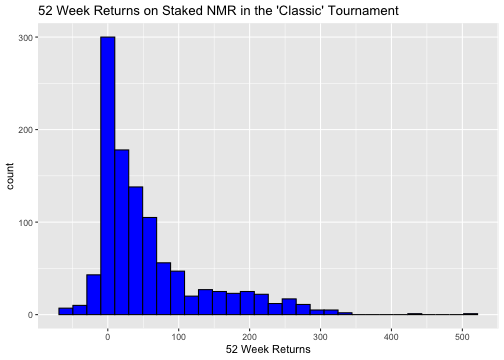
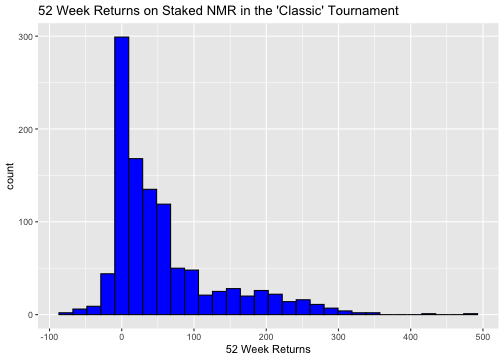
Update the Numerai Growth case study

diff --git a/case-studies/numerai-growth/index.html b/case-studies/numerai-growth/index.html
@@ -4,7 +4,7 @@
     <title>Interacting with and Analyzing Numerai Network Growth</title>
     <meta charset="utf-8" />
     <meta name="author" content="Omni Analytics Group" />
-    <meta name="date" content="2020-12-22" />
+    <meta name="date" content="2020-12-23" />
     <script src="libs/header-attrs-2.5/header-attrs.js"></script>
     <link href="libs/remark-css-0.0.1/default.css" rel="stylesheet" />
     <link href="libs/remark-css-0.0.1/default-fonts.css" rel="stylesheet" />
@@ -16,7 +16,7 @@ class: center, middle, inverse, title-slide
 # Interacting with and Analyzing Numerai Network Growth
 ## <br/>with GraphQL and <code>ggplot2</code>
 ### Omni Analytics Group
-### 2020-12-22
+### 2020-12-23
 
 ---
 
@@ -25,11 +25,28 @@ class: center, middle, inverse, title-slide
 
 Numerai is a modern-day hedge fund where a large pool of anonymous data scientists submit models. These models are then used by the AI-based Numerai backend to perform trades. Numerai has seen explosive growth in recent years... can we use R-based tools to analyze this growth?
 
+![](images/numerai.png)
+
 ---
 
 ## GraphQL
 
-Numerai's API uses GraphQL as a backend, which is a structured query language much like SQL itself. There are two primary methods of accessing the data
+Numerai's API uses GraphQL as a backend, which is a structured query language much like SQL itself.
+
+- Developed initially as an internal project by Facebook
+- Provides a method for development of APIs much like REST
+- Flexible and rich compared to REST and therefore may be less suitable for more simple web APIs
+- Where REST APIs are organized as a collection of endpoints, GraphQL is organized as a collection of types and fields with their associated datatype specification.
+
+Let's take a look at how to interact with GraphQL in R...
+
+&lt;div style="text-align: center;"&gt;&lt;img src="images/graphql.png" width=500&gt;&lt;/div&gt;
+
+---
+
+## GraphQL in R
+
+There are two primary methods of accessing the Numerai data:
 
 - Directly, using the `ghql` R package
 - Indirectly, by downloading the parsed JSON data from the Numerai API and reading it into R
@@ -58,9 +75,11 @@ con &lt;- GraphqlClient$new(
 )
 ```
 
+This connection object maintains the GraphQL client connection to the Numerai API server. Note that it is an &lt;a href="https://adv-r.hadley.nz/r6.html"&gt;R6-style object&lt;/a&gt; and hence is initialized with 
+
 ---
 
-## Making a Query
+## Making a Leaderboard Query
 
 We can perform a query with the following:
 
@@ -81,16 +100,35 @@ qry$query('leaderboard', '{
 result &lt;- con$exec(qry$queries$leaderboard)
 ```
 
+Note that we begin with the initialization of a new instance of the R6 `Query` class, and then call the `query()` method, passing in two arguments:
+
+- The name of the resulting object
+- The raw GraphQL query that is to be executed
+
 ---
 
 ## Viewing the Results
 
 
 
+A quick peak at the raw return value shows JSON data that we need to parse using the `fromJSON()` function, in order to retrieve a data frame:
+
 
 ```r
-parsed &lt;- fromJSON(result)[[1]]$v2Leaderboard
-head(parsed) %&gt;%
+print(paste0(substring(result, 1, 50), "..."))
+```
+
+```
+## [1] "{\"data\":{\"v2Leaderboard\":[{\"corrRep\":0.04212874041..."
+```
+
+And the parsed data:
+
+
+```r
+nmr &lt;- fromJSON(result)[[1]]$v2Leaderboard
+
+head(nmr, 4) %&gt;%
   kable()
 ```
 
@@ -106,77 +144,97 @@ head(parsed) %&gt;%
  &lt;/thead&gt;
 &lt;tbody&gt;
   &lt;tr&gt;
-   &lt;td style="text-align:right;"&gt; 0.0402891 &lt;/td&gt;
-   &lt;td style="text-align:right;"&gt; 0.0209802 &lt;/td&gt;
-   &lt;td style="text-align:right;"&gt; 119.53684 &lt;/td&gt;
-   &lt;td style="text-align:right;"&gt; 335.1833 &lt;/td&gt;
+   &lt;td style="text-align:right;"&gt; 0.0421287 &lt;/td&gt;
+   &lt;td style="text-align:right;"&gt; 0.0218499 &lt;/td&gt;
+   &lt;td style="text-align:right;"&gt; 130.45863 &lt;/td&gt;
+   &lt;td style="text-align:right;"&gt; 356.8333 &lt;/td&gt;
    &lt;td style="text-align:left;"&gt; era__mix__2000 &lt;/td&gt;
   &lt;/tr&gt;
   &lt;tr&gt;
-   &lt;td style="text-align:right;"&gt; 0.0401076 &lt;/td&gt;
-   &lt;td style="text-align:right;"&gt; 0.0166502 &lt;/td&gt;
-   &lt;td style="text-align:right;"&gt; NA &lt;/td&gt;
-   &lt;td style="text-align:right;"&gt; NA &lt;/td&gt;
-   &lt;td style="text-align:left;"&gt; tb &lt;/td&gt;
-  &lt;/tr&gt;
-  &lt;tr&gt;
-   &lt;td style="text-align:right;"&gt; 0.0400921 &lt;/td&gt;
-   &lt;td style="text-align:right;"&gt; 0.0168063 &lt;/td&gt;
-   &lt;td style="text-align:right;"&gt; 86.45799 &lt;/td&gt;
-   &lt;td style="text-align:right;"&gt; 435.2859 &lt;/td&gt;
+   &lt;td style="text-align:right;"&gt; 0.0407043 &lt;/td&gt;
+   &lt;td style="text-align:right;"&gt; 0.0164406 &lt;/td&gt;
+   &lt;td style="text-align:right;"&gt; 85.57485 &lt;/td&gt;
+   &lt;td style="text-align:right;"&gt; 432.7505 &lt;/td&gt;
    &lt;td style="text-align:left;"&gt; themiconmanweb &lt;/td&gt;
   &lt;/tr&gt;
   &lt;tr&gt;
-   &lt;td style="text-align:right;"&gt; 0.0392682 &lt;/td&gt;
-   &lt;td style="text-align:right;"&gt; 0.0177738 &lt;/td&gt;
-   &lt;td style="text-align:right;"&gt; 87.74424 &lt;/td&gt;
-   &lt;td style="text-align:right;"&gt; 502.7527 &lt;/td&gt;
-   &lt;td style="text-align:left;"&gt; themicon &lt;/td&gt;
-  &lt;/tr&gt;
-  &lt;tr&gt;
-   &lt;td style="text-align:right;"&gt; 0.0388637 &lt;/td&gt;
-   &lt;td style="text-align:right;"&gt; 0.0154371 &lt;/td&gt;
-   &lt;td style="text-align:right;"&gt; 86.85474 &lt;/td&gt;
-   &lt;td style="text-align:right;"&gt; 203.2468 &lt;/td&gt;
+   &lt;td style="text-align:right;"&gt; 0.0404415 &lt;/td&gt;
+   &lt;td style="text-align:right;"&gt; 0.0159812 &lt;/td&gt;
+   &lt;td style="text-align:right;"&gt; 95.13242 &lt;/td&gt;
+   &lt;td style="text-align:right;"&gt; 216.6807 &lt;/td&gt;
    &lt;td style="text-align:left;"&gt; rgb_alpha &lt;/td&gt;
   &lt;/tr&gt;
   &lt;tr&gt;
-   &lt;td style="text-align:right;"&gt; 0.0386542 &lt;/td&gt;
-   &lt;td style="text-align:right;"&gt; 0.0090163 &lt;/td&gt;
-   &lt;td style="text-align:right;"&gt; 98.36349 &lt;/td&gt;
-   &lt;td style="text-align:right;"&gt; 277.3833 &lt;/td&gt;
-   &lt;td style="text-align:left;"&gt; lackofdexterity &lt;/td&gt;
+   &lt;td style="text-align:right;"&gt; 0.0401757 &lt;/td&gt;
+   &lt;td style="text-align:right;"&gt; 0.0157641 &lt;/td&gt;
+   &lt;td style="text-align:right;"&gt; NA &lt;/td&gt;
+   &lt;td style="text-align:right;"&gt; NA &lt;/td&gt;
+   &lt;td style="text-align:left;"&gt; tb &lt;/td&gt;
   &lt;/tr&gt;
 &lt;/tbody&gt;
 &lt;/table&gt;
 
 ---
 
-## Graphing the Data
+## 52 Week Returns
+
+Now we can use `ggplot()` in order to visualize aspects of the data!
 
 
 ```r
-ggplot(data = parsed, aes(x = return_52Weeks)) +
+ggplot(data = nmr, aes(x = return_52Weeks)) +
   geom_histogram(fill = "blue", colour = "black") +
   labs(title = "52 Week Returns on Staked NMR in the 'Classic' Tournament", 
        x = "52 Week Returns")
 ```
 
-![](index_files/figure-html/unnamed-chunk-6-1.png)&lt;!-- --&gt;
+![](index_files/figure-html/unnamed-chunk-7-1.png)&lt;!-- --&gt;
 
 ---
 
-## More Graphs
+## 13 Week Returns
+
+Now we can use `ggplot()` in order to visualize aspects of the data!
 
 
 ```r
-ggplot(data = parsed, aes(x = corrRep, y = mmcRep)) +
+ggplot(data = nmr, aes(x = return_13Weeks)) +
+  geom_histogram(fill = "blue", colour = "black") +
+  labs(title = "13 Week Returns on Staked NMR in the 'Classic' Tournament", 
+       x = "13 Week Returns")
+```
+
+![](index_files/figure-html/unnamed-chunk-8-1.png)&lt;!-- --&gt;
+
+---
+
+## 52 Week Returns vs 13 Week Returns
+
+
+```r
+ggplot(data = nmr, aes(x = return_13Weeks, y = return_52Weeks)) +
+  geom_point() +
+  geom_smooth(method = "lm") +
+  labs(title = "52 Week Returns vs 13 Week Returns")
+```
+
+![](index_files/figure-html/unnamed-chunk-9-1.png)&lt;!-- --&gt;
+
+---
+
+## Correlation vs MMC
+
+
+```r
+ggplot(data = nmr, aes(x = corrRep, y = mmcRep)) +
   geom_point() +
   geom_smooth(method = "lm") +
   labs(title = "Correlation vs MMC")
 ```
 
-![](index_files/figure-html/unnamed-chunk-7-1.png)&lt;!-- --&gt;
+![](index_files/figure-html/unnamed-chunk-10-1.png)&lt;!-- --&gt;
+
+---
 
     </textarea>
 <style data-target="print-only">@media screen {.remark-slide-container{display:block;}.remark-slide-scaler{box-shadow:none;}}</style>
